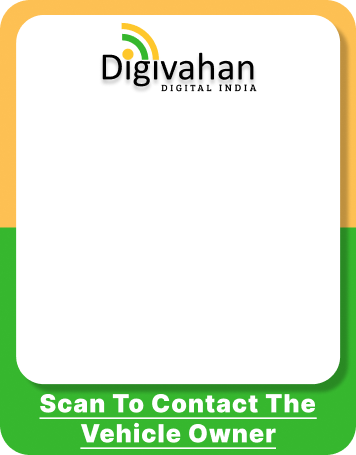
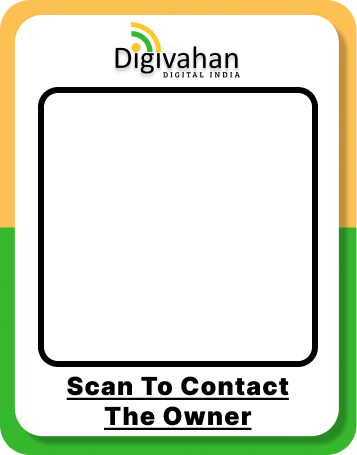
update the emergency contact api and also update the qr_template part for car and bike and also add two parameter in payload in onesinglenotification

Changed region(s): [[0.0309, 0.0308, 1.0, 1.0], [0.0618, 0.0308, 0.0927, 0.0615]]

diff --git a/src/controllers/emergencyContactController.js b/src/controllers/emergencyContactController.js
@@ -36,8 +36,8 @@ const AddEmergencyContact = async (req, res) => {
     // 🔍 CHECK DUPLICATE
     const isAlreadyExist = user.emergency_contacts.some((contact) => {
       return (
-        contact.phone_number === phone_number &&
-        contact.first_name.toLowerCase() === first_name.toLowerCase() &&
+        contact.phone_number === phone_number ||
+        contact.first_name.toLowerCase() === first_name.toLowerCase() ||
         contact.last_name.toLowerCase() === last_name.toLowerCase()
       );
     });
@@ -66,7 +66,7 @@ const AddEmergencyContact = async (req, res) => {
             (error, result) => {
               if (error) reject(error);
               else resolve(result);
-            }
+            },
           )
           .end(buffer);
       });
@@ -147,7 +147,7 @@ const UpdateUserEmergencyContact = async (req, res) => {
 
     // 2⃣ Find emergency contact
     const contact = user.emergency_contacts.find((c) =>
-      c._id.equals(contact_id)
+      c._id.equals(contact_id),
     );
 
     if (!contact) {
@@ -179,7 +179,7 @@ const UpdateUserEmergencyContact = async (req, res) => {
             (error, result) => {
               if (error) reject(error);
               else resolve(result);
-            }
+            },
           )
           .end(buffer);
       });
@@ -240,7 +240,7 @@ const DeleteUserEmergencyContact = async (req, res) => {
 
     // 4⃣ Remove contact from array
     user.emergency_contacts = user.emergency_contacts.filter(
-      (item) => item._id.toString() !== contact_id
+      (item) => item._id.toString() !== contact_id,
     );
 
     // 5⃣ Save updated user

diff --git a/src/controllers/notificationController.js b/src/controllers/notificationController.js
@@ -162,6 +162,8 @@ const sendNotification = async (req, res) => {
         longitude: longitude || "",
       },
       androidChannelId,
+      largeIconUrl: incident_proof?.[0] || undefined,
+      bigPictureUrl: incident_proof?.[0] || undefined,
     });
 
     return res.status(201).json({
@@ -301,6 +303,8 @@ const sendOneSignalNotification = async ({
   message,
   data = {},
   androidChannelId,
+  largeIconUrl = "",
+  bigPictureUrl = "",
 }) => {
   try {
     const payload = {
@@ -317,6 +321,11 @@ const sendOneSignalNotification = async ({
 
       // App-side logic data (unchanged)
       data,
+      large_icon: largeIconUrl,
+      android_big_picture: bigPictureUrl,
+
+      android_visibility: 1,
+      priority: 10,
     };
 
     const response = await axios.post(

diff --git a/src/utils/generateQRTemplate.js b/src/utils/generateQRTemplate.js
@@ -8,10 +8,10 @@ const TEMPLATE_CONFIG = {
     canvasHeight: 718,
     templatePath: path.join(__dirname, "../../assets/template.png"),
     qrBox: {
-      x: 118,
-      y: 290,
-      width: 225,
-      height: 225,
+      x: 98,
+      y: 274,
+      width: 260,
+      height: 260,
     },
   },
 
@@ -20,10 +20,10 @@ const TEMPLATE_CONFIG = {
     canvasHeight: 455, // ✅ updated as requested
     templatePath: path.join(__dirname, "../../assets/bike_template.png"),
     qrBox: {
-      x: 43,
-      y: 100,
-      width: 270,
-      height: 270,
+      x: 52,
+      y: 102,
+      width: 255,
+      height: 255,
     },
   },
 };
